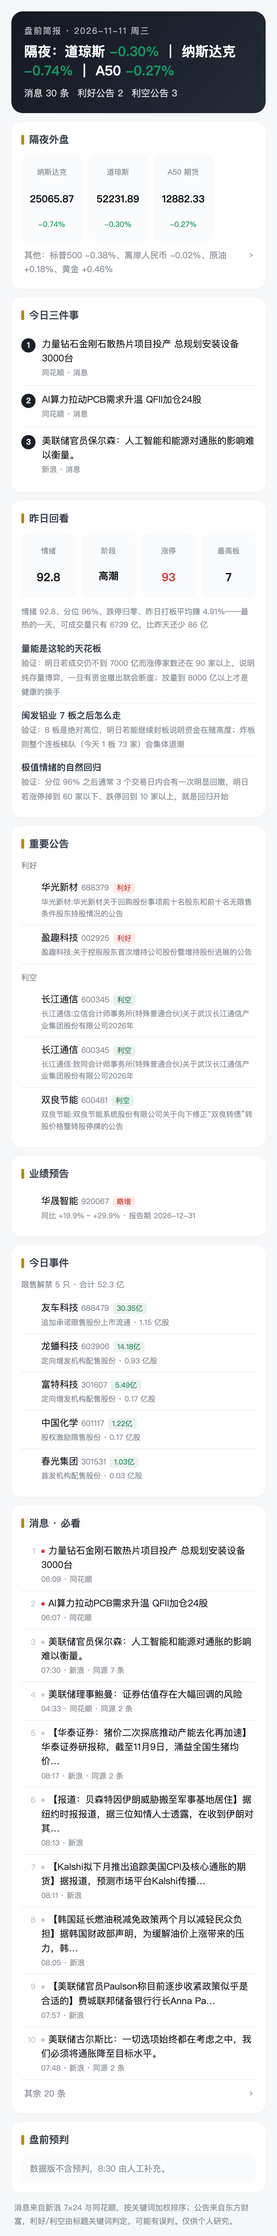
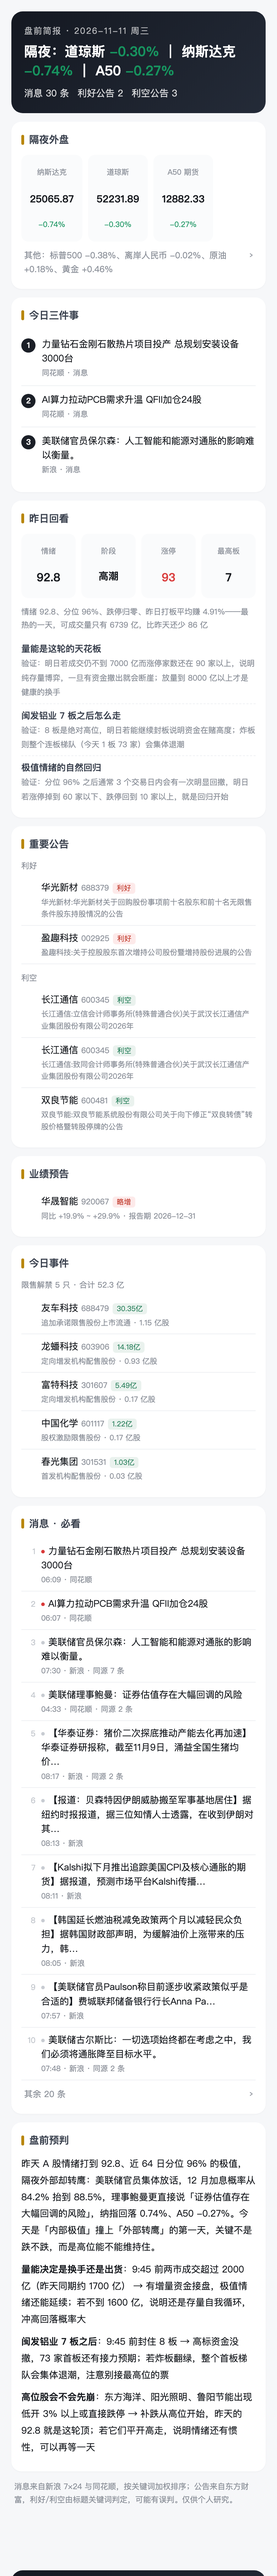
report: 2026-11-10

diff --git a/pre/2026-11-11/2026-11-11-盘前.html b/pre/2026-11-11/2026-11-11-盘前.html
@@ -57,4 +57,4 @@ padding:9px 16px;font-size:12.5px;max-width:560px;margin:0 auto}
 .nav a{color:#8a8f98;text-decoration:none;white-space:nowrap}
 .nav a.on{color:#1b1f27;font-weight:700}
 .nav a.home{color:#b8860b;font-weight:600}
-</style><link rel="manifest" href="/a-share-review/manifest.webmanifest"><meta name="theme-color" content="#1b1f27"><meta name="apple-mobile-web-app-capable" content="yes"><meta name="apple-mobile-web-app-status-bar-style" content="black-translucent"><meta name="apple-mobile-web-app-title" content="A股复盘"><link rel="apple-touch-icon" href="/a-share-review/icon-192.png"></head><body><div class="nav"><a class="home" href="../../index.html">⌂ 首页</a><a class="on" href="../../pre/index.html">盘前简报</a></div><div class="wrap"><div class="hero"><div class="d">盘前简报 · 2026-11-11 周三</div><h1>隔夜：道琼斯 <b class="down">-0.30%</b> ｜ 纳斯达克 <b class="down">-0.74%</b> ｜ A50 <b class="down">-0.27%</b></h1><div class="sum"><span>消息 30 条</span><span>利好公告 2</span><span>利空公告 3</span></div></div><div class="card"><h2>隔夜外盘</h2><div class="ov"><div><div class="n">纳斯达克</div><div class="v">25065.87</div><div class="p down">-0.74%</div></div><div><div class="n">道琼斯</div><div class="v">52231.89</div><div class="p down">-0.30%</div></div><div><div class="n">A50 期货</div><div class="v">12882.33</div><div class="p down">-0.27%</div></div></div><details class="more"><summary><span>其他：标普500 -0.38%、离岸人民币 -0.02%、原油 +0.18%、黄金 +0.46%</span><span class="arw">›</span></summary><div class="ov" style="margin-top:8px"><div><div class="n">标普500</div><div class="v">7520.93</div><div class="p down">-0.38%</div></div><div><div class="n">离岸人民币</div><div class="v">6.67</div><div class="p down">-0.02%</div></div><div><div class="n">原油</div><div class="v">86.19</div><div class="p up">+0.18%</div></div><div><div class="n">黄金</div><div class="v">4048.86</div><div class="p up">+0.46%</div></div></div></details></div><div class="card"><h2>今日三件事</h2><div class="t3"><div class="n">1</div><div><div class="t">力量钻石金刚石散热片项目投产 总规划安装设备3000台</div><div class="s">同花顺 · 消息</div></div></div><div class="t3"><div class="n">2</div><div><div class="t">AI算力拉动PCB需求升温 QFII加仓24股</div><div class="s">同花顺 · 消息</div></div></div><div class="t3"><div class="n">3</div><div><div class="t">美联储官员保尔森：人工智能和能源对通胀的影响难以衡量。</div><div class="s">新浪 · 消息</div></div></div></div><div class="card"><h2>昨日回看</h2><div class="kv"><div><div class="n">情绪</div><div class="v">92.8</div></div><div><div class="n">阶段</div><div class="v" style="font-size:14px">高潮</div></div><div><div class="n">涨停</div><div class="v up">93</div></div><div><div class="n">最高板</div><div class="v">7</div></div></div><div class="note" style="margin-bottom:8px">情绪 92.8、分位 96%、跌停归零、昨日打板平均赚 4.91%——最热的一天，可成交量只有 6739 亿，比昨天还少 86 亿</div><div class="watch"><b>量能是这轮的天花板</b><br><span class="note">验证：明日若成交仍不到 7000 亿而涨停家数还在 90 家以上，说明纯存量博弈，一旦有资金撤出就会断崖；放量到 8000 亿以上才是健康的换手</span></div><div class="watch"><b>闽发铝业 7 板之后怎么走</b><br><span class="note">验证：8 板是绝对高位，明日若能继续封板说明资金在赌高度；炸板则整个连板梯队（今天 1 板 73 家）会集体退潮</span></div><div class="watch"><b>极值情绪的自然回归</b><br><span class="note">验证：分位 96% 之后通常 3 个交易日内会有一次明显回撤，明日若涨停掉到 60 家以下、跌停回到 10 家以上，就是回归开始</span></div></div><div class="card"><h2>重要公告</h2><div class="note" style="margin-bottom:4px">利好</div><div class="item"><div class="no"></div><div class="b"><div class="t">华光新材 <span class="mut" style="font-size:11px">688379</span><span class="tag tag-good">利好</span></div><div class="m">华光新材:华光新材关于回购股份事项前十名股东和前十名无限售条件股东持股情况的公告</div></div></div><div class="item"><div class="no"></div><div class="b"><div class="t">盈趣科技 <span class="mut" style="font-size:11px">002925</span><span class="tag tag-good">利好</span></div><div class="m">盈趣科技:关于控股股东首次增持公司股份暨增持股份进展的公告</div></div></div><div class="note" style="margin:10px 0 4px">利空</div><div class="item"><div class="no"></div><div class="b"><div class="t">长江通信 <span class="mut" style="font-size:11px">600345</span><span class="tag tag-bad">利空</span></div><div class="m">长江通信:立信会计师事务所(特殊普通合伙)关于武汉长江通信产业集团股份有限公司2026年</div></div></div><div class="item"><div class="no"></div><div class="b"><div class="t">长江通信 <span class="mut" style="font-size:11px">600345</span><span class="tag tag-bad">利空</span></div><div class="m">长江通信:致同会计师事务所(特殊普通合伙)关于武汉长江通信产业集团股份有限公司2026年</div></div></div><div class="item"><div class="no"></div><div class="b"><div class="t">双良节能 <span class="mut" style="font-size:11px">600481</span><span class="tag tag-bad">利空</span></div><div class="m">双良节能:双良节能系统股份有限公司关于向下修正“双良转债”转股价格暨转股停牌的公告</div></div></div></div><div class="card"><h2>业绩预告</h2><div class="item"><div class="no"></div><div class="b"><div class="t">华晟智能 <span class="mut" style="font-size:11px">920067</span><span class="tag tag-good">略增</span></div><div class="m">同比 +19.9% ~ +29.9% · 报告期 2026-12-31</div></div></div></div><div class="card"><h2>今日事件</h2><div class="note" style="margin-bottom:6px">限售解禁 5 只 · 合计 52.3 亿</div><div class="item"><div class="no"></div><div class="b"><div class="t">友车科技 <span class="mut" style="font-size:11px">688479</span><span class="tag tag-bad">30.35亿</span></div><div class="m">追加承诺限售股份上市流通 · 1.15 亿股</div></div></div><div class="item"><div class="no"></div><div class="b"><div class="t">龙蟠科技 <span class="mut" style="font-size:11px">603906</span><span class="tag tag-bad">14.18亿</span></div><div class="m">定向增发机构配售股份 · 0.93 亿股</div></div></div><div class="item"><div class="no"></div><div class="b"><div class="t">富特科技 <span class="mut" style="font-size:11px">301607</span><span class="tag tag-bad">5.49亿</span></div><div class="m">定向增发机构配售股份 · 0.17 亿股</div></div></div><div class="item"><div class="no"></div><div class="b"><div class="t">中国化学 <span class="mut" style="font-size:11px">601117</span><span class="tag tag-bad">1.22亿</span></div><div class="m">股权激励限售股份 · 0.17 亿股</div></div></div><div class="item"><div class="no"></div><div class="b"><div class="t">春光集团 <span class="mut" style="font-size:11px">301531</span><span class="tag tag-bad">1.03亿</span></div><div class="m">首发机构配售股份 · 0.03 亿股</div></div></div></div><div class="card"><h2>消息 · 必看</h2><div class="item"><div class="no">1</div><div class="b"><div class="t"><span class="dot g"></span>力量钻石金刚石散热片项目投产 总规划安装设备3000台</div><div class="m">06:09 · 同花顺</div></div></div><div class="item"><div class="no">2</div><div class="b"><div class="t"><span class="dot g"></span>AI算力拉动PCB需求升温 QFII加仓24股</div><div class="m">06:07 · 同花顺</div></div></div><div class="item"><div class="no">3</div><div class="b"><div class="t"><span class="dot n"></span>美联储官员保尔森：人工智能和能源对通胀的影响难以衡量。</div><div class="m">07:30 · 新浪 · 同源 7 条</div></div></div><div class="item"><div class="no">4</div><div class="b"><div class="t"><span class="dot n"></span>美联储理事鲍曼：证券估值存在大幅回调的风险</div><div class="m">04:33 · 同花顺 · 同源 2 条</div></div></div><div class="item"><div class="no">5</div><div class="b"><div class="t"><span class="dot n"></span>【华泰证券：猪价二次探底推动产能去化再加速】华泰证券研报称，截至11月9日，涌益全国生猪均价…</div><div class="m">08:17 · 新浪 · 同源 2 条</div></div></div><div class="item"><div class="no">6</div><div class="b"><div class="t"><span class="dot n"></span>【报道：贝森特因伊朗威胁搬至军事基地居住】据纽约时报报道，据三位知情人士透露，在收到伊朗对其…</div><div class="m">08:13 · 新浪</div></div></div><div class="item"><div class="no">7</div><div class="b"><div class="t"><span class="dot n"></span>【Kalshi拟下月推出追踪美国CPI及核心通胀的期货】据报道，预测市场平台Kalshi传播…</div><div class="m">08:11 · 新浪</div></div></div><div class="item"><div class="no">8</div><div class="b"><div class="t"><span class="dot n"></span>【韩国延长燃油税减免政策两个月以减轻民众负担】据韩国财政部声明，为缓解油价上涨带来的压力，韩…</div><div class="m">08:05 · 新浪</div></div></div><div class="item"><div class="no">9</div><div class="b"><div class="t"><span class="dot n"></span>【美联储官员Paulson称目前逐步收紧政策似乎是合适的】费城联邦储备银行行长Anna Pa…</div><div class="m">07:57 · 新浪</div></div></div><div class="item"><div class="no">10</div><div class="b"><div class="t"><span class="dot n"></span>美联储古尔斯比：一切选项始终都在考虑之中，我们必须将通胀降至目标水平。</div><div class="m">07:48 · 新浪 · 同源 2 条</div></div></div><details class="more"><summary><span>其余 20 条</span><span class="arw">›</span></summary><div class="item"><div class="no">11</div><div class="b"><div class="t"><span class="dot n"></span>美联储官员古尔斯比：如果通胀持续存在，我们将不得不接受这一现实。</div><div class="m">07:47 · 新浪 · 同源 9 条</div></div></div><div class="item"><div class="no">12</div><div class="b"><div class="t"><span class="dot n"></span>美联储12月加息25个基点的概率为88.5%</div><div class="m">06:15 · 同花顺</div></div></div><div class="item"><div class="no">13</div><div class="b"><div class="t"><span class="dot n"></span>泰国内阁批准数据中心七级监管政策</div><div class="m">05:58 · 同花顺</div></div></div><div class="item"><div class="no">14</div><div class="b"><div class="t"><span class="dot g"></span>【27只滞涨科技股三季报业绩高增 部分公司拟大举回购】AI应用赛道持续爆发带动科技股反弹，国…</div><div class="m">07:38 · 新浪</div></div></div><div class="item"><div class="no">15</div><div class="b"><div class="t"><span class="dot g"></span>科技产业基本面向好 27只业绩高增股估值待修复</div><div class="m">06:13 · 同花顺</div></div></div><div class="item"><div class="no">16</div><div class="b"><div class="t"><span class="dot b2"></span>CoreWeave上调年度营收展望 缓解业务放缓担忧</div><div class="m">05:51 · 同花顺</div></div></div><div class="item"><div class="no">17</div><div class="b"><div class="t"><span class="dot n"></span>美股收评：美股三大指数集体收跌</div><div class="m">05:00 · 同花顺</div></div></div><div class="item"><div class="no">18</div><div class="b"><div class="t"><span class="dot g"></span>现货黄金突破4040美元/盎司，日内涨0.18%。</div><div class="m">08:03 · 新浪</div></div></div><div class="item"><div class="no">19</div><div class="b"><div class="t"><span class="dot b2"></span>软银集团公布第二季度净亏损1.12万亿日元后，股价出现抛售压力。</div><div class="m">08:00 · 新浪</div></div></div><div class="item"><div class="no">20</div><div class="b"><div class="t"><span class="dot g"></span>【中国宝武：西芒杜北部矿山项目全面建成投产】据中国宝武消息，当地时间11月6日，在宝赢西芒杜…</div><div class="m">07:55 · 新浪</div></div></div><div class="item"><div class="no">21</div><div class="b"><div class="t"><span class="dot g"></span>【泉金客运航线2026年出入境旅客突破10万人次】泉州边检站10日透露，截至11月8日下午，…</div><div class="m">07:36 · 新浪</div></div></div><div class="item"><div class="no">22</div><div class="b"><div class="t"><span class="dot g"></span>韩正会见联合国秘书长古特雷斯</div><div class="m">07:01 · 同花顺</div></div></div><div class="item"><div class="no">23</div><div class="b"><div class="t"><span class="dot b2"></span>CoreWeave高管称预计调整后净亏损将在2027年显著减少</div><div class="m">06:49 · 同花顺 · 同源 2 条</div></div></div><div class="item"><div class="no">24</div><div class="b"><div class="t"><span class="dot g"></span>加拿大将对11个伊朗实体实施制裁</div><div class="m">06:41 · 同花顺</div></div></div><div class="item"><div class="no">25</div><div class="b"><div class="t"><span class="dot b2"></span>美国联邦贸易委员会起诉Hims &amp; Hers，称其存在欺骗性隐私行为</div><div class="m">05:28 · 同花顺</div></div></div><div class="item"><div class="no">26</div><div class="b"><div class="t"><span class="dot g"></span>英国警方：一美军士兵因涉嫌从事与俄相关间谍活动在英被捕</div><div class="m">04:23 · 同花顺</div></div></div><div class="item"><div class="no">27</div><div class="b"><div class="t"><span class="dot n"></span>【中信建投玻璃纤维行业2027年投资策略：新技术看好无布率先落地】中信建投证券发布玻璃纤维2…</div><div class="m">08:11 · 新浪</div></div></div><div class="item"><div class="no">28</div><div class="b"><div class="t"><span class="dot n"></span>【高技术产品成出口新名片 中国外贸的APEC底色更浓】1月18日至19日，亚太经合组织（AP…</div><div class="m">08:07 · 新浪</div></div></div><div class="item"><div class="no">29</div><div class="b"><div class="t"><span class="dot n"></span>【中信建投2027年证券行业投资策略：建议沿头部集中与高弹性双主线布局】中信建投证券发布20…</div><div class="m">08:03 · 新浪</div></div></div><div class="item"><div class="no">30</div><div class="b"><div class="t"><span class="dot n"></span>【韩国 11 月 1-10 日出口同比增长111.9% 半导体出口同比增长331.2%】韩国…</div><div class="m">08:02 · 新浪</div></div></div></details></div><div class="card"><h2>盘前预判</h2><div class="empty">数据版不含预判，8:30 由人工补充。</div></div><div class="note" style="padding:0 4px">消息来自新浪 7×24 与同花顺，按关键词加权排序；公告来自东方财富，利好/利空由标题关键词判定，可能有误判。仅供个人研究。</div></div></body></html>
+</style><link rel="manifest" href="/a-share-review/manifest.webmanifest"><meta name="theme-color" content="#1b1f27"><meta name="apple-mobile-web-app-capable" content="yes"><meta name="apple-mobile-web-app-status-bar-style" content="black-translucent"><meta name="apple-mobile-web-app-title" content="A股复盘"><link rel="apple-touch-icon" href="/a-share-review/icon-192.png"></head><body><div class="nav"><a class="home" href="../../index.html">⌂ 首页</a><a class="on" href="../../pre/index.html">盘前简报</a></div><div class="wrap"><div class="hero"><div class="d">盘前简报 · 2026-11-11 周三</div><h1>隔夜：道琼斯 <b class="down">-0.30%</b> ｜ 纳斯达克 <b class="down">-0.74%</b> ｜ A50 <b class="down">-0.27%</b></h1><div class="sum"><span>消息 30 条</span><span>利好公告 2</span><span>利空公告 3</span></div></div><div class="card"><h2>隔夜外盘</h2><div class="ov"><div><div class="n">纳斯达克</div><div class="v">25065.87</div><div class="p down">-0.74%</div></div><div><div class="n">道琼斯</div><div class="v">52231.89</div><div class="p down">-0.30%</div></div><div><div class="n">A50 期货</div><div class="v">12882.33</div><div class="p down">-0.27%</div></div></div><details class="more"><summary><span>其他：标普500 -0.38%、离岸人民币 -0.02%、原油 +0.18%、黄金 +0.46%</span><span class="arw">›</span></summary><div class="ov" style="margin-top:8px"><div><div class="n">标普500</div><div class="v">7520.93</div><div class="p down">-0.38%</div></div><div><div class="n">离岸人民币</div><div class="v">6.67</div><div class="p down">-0.02%</div></div><div><div class="n">原油</div><div class="v">86.19</div><div class="p up">+0.18%</div></div><div><div class="n">黄金</div><div class="v">4048.86</div><div class="p up">+0.46%</div></div></div></details></div><div class="card"><h2>今日三件事</h2><div class="t3"><div class="n">1</div><div><div class="t">力量钻石金刚石散热片项目投产 总规划安装设备3000台</div><div class="s">同花顺 · 消息</div></div></div><div class="t3"><div class="n">2</div><div><div class="t">AI算力拉动PCB需求升温 QFII加仓24股</div><div class="s">同花顺 · 消息</div></div></div><div class="t3"><div class="n">3</div><div><div class="t">美联储官员保尔森：人工智能和能源对通胀的影响难以衡量。</div><div class="s">新浪 · 消息</div></div></div></div><div class="card"><h2>昨日回看</h2><div class="kv"><div><div class="n">情绪</div><div class="v">92.8</div></div><div><div class="n">阶段</div><div class="v" style="font-size:14px">高潮</div></div><div><div class="n">涨停</div><div class="v up">93</div></div><div><div class="n">最高板</div><div class="v">7</div></div></div><div class="note" style="margin-bottom:8px">情绪 92.8、分位 96%、跌停归零、昨日打板平均赚 4.91%——最热的一天，可成交量只有 6739 亿，比昨天还少 86 亿</div><div class="watch"><b>量能是这轮的天花板</b><br><span class="note">验证：明日若成交仍不到 7000 亿而涨停家数还在 90 家以上，说明纯存量博弈，一旦有资金撤出就会断崖；放量到 8000 亿以上才是健康的换手</span></div><div class="watch"><b>闽发铝业 7 板之后怎么走</b><br><span class="note">验证：8 板是绝对高位，明日若能继续封板说明资金在赌高度；炸板则整个连板梯队（今天 1 板 73 家）会集体退潮</span></div><div class="watch"><b>极值情绪的自然回归</b><br><span class="note">验证：分位 96% 之后通常 3 个交易日内会有一次明显回撤，明日若涨停掉到 60 家以下、跌停回到 10 家以上，就是回归开始</span></div></div><div class="card"><h2>重要公告</h2><div class="note" style="margin-bottom:4px">利好</div><div class="item"><div class="no"></div><div class="b"><div class="t">华光新材 <span class="mut" style="font-size:11px">688379</span><span class="tag tag-good">利好</span></div><div class="m">华光新材:华光新材关于回购股份事项前十名股东和前十名无限售条件股东持股情况的公告</div></div></div><div class="item"><div class="no"></div><div class="b"><div class="t">盈趣科技 <span class="mut" style="font-size:11px">002925</span><span class="tag tag-good">利好</span></div><div class="m">盈趣科技:关于控股股东首次增持公司股份暨增持股份进展的公告</div></div></div><div class="note" style="margin:10px 0 4px">利空</div><div class="item"><div class="no"></div><div class="b"><div class="t">长江通信 <span class="mut" style="font-size:11px">600345</span><span class="tag tag-bad">利空</span></div><div class="m">长江通信:立信会计师事务所(特殊普通合伙)关于武汉长江通信产业集团股份有限公司2026年</div></div></div><div class="item"><div class="no"></div><div class="b"><div class="t">长江通信 <span class="mut" style="font-size:11px">600345</span><span class="tag tag-bad">利空</span></div><div class="m">长江通信:致同会计师事务所(特殊普通合伙)关于武汉长江通信产业集团股份有限公司2026年</div></div></div><div class="item"><div class="no"></div><div class="b"><div class="t">双良节能 <span class="mut" style="font-size:11px">600481</span><span class="tag tag-bad">利空</span></div><div class="m">双良节能:双良节能系统股份有限公司关于向下修正“双良转债”转股价格暨转股停牌的公告</div></div></div></div><div class="card"><h2>业绩预告</h2><div class="item"><div class="no"></div><div class="b"><div class="t">华晟智能 <span class="mut" style="font-size:11px">920067</span><span class="tag tag-good">略增</span></div><div class="m">同比 +19.9% ~ +29.9% · 报告期 2026-12-31</div></div></div></div><div class="card"><h2>今日事件</h2><div class="note" style="margin-bottom:6px">限售解禁 5 只 · 合计 52.3 亿</div><div class="item"><div class="no"></div><div class="b"><div class="t">友车科技 <span class="mut" style="font-size:11px">688479</span><span class="tag tag-bad">30.35亿</span></div><div class="m">追加承诺限售股份上市流通 · 1.15 亿股</div></div></div><div class="item"><div class="no"></div><div class="b"><div class="t">龙蟠科技 <span class="mut" style="font-size:11px">603906</span><span class="tag tag-bad">14.18亿</span></div><div class="m">定向增发机构配售股份 · 0.93 亿股</div></div></div><div class="item"><div class="no"></div><div class="b"><div class="t">富特科技 <span class="mut" style="font-size:11px">301607</span><span class="tag tag-bad">5.49亿</span></div><div class="m">定向增发机构配售股份 · 0.17 亿股</div></div></div><div class="item"><div class="no"></div><div class="b"><div class="t">中国化学 <span class="mut" style="font-size:11px">601117</span><span class="tag tag-bad">1.22亿</span></div><div class="m">股权激励限售股份 · 0.17 亿股</div></div></div><div class="item"><div class="no"></div><div class="b"><div class="t">春光集团 <span class="mut" style="font-size:11px">301531</span><span class="tag tag-bad">1.03亿</span></div><div class="m">首发机构配售股份 · 0.03 亿股</div></div></div></div><div class="card"><h2>消息 · 必看</h2><div class="item"><div class="no">1</div><div class="b"><div class="t"><span class="dot g"></span>力量钻石金刚石散热片项目投产 总规划安装设备3000台</div><div class="m">06:09 · 同花顺</div></div></div><div class="item"><div class="no">2</div><div class="b"><div class="t"><span class="dot g"></span>AI算力拉动PCB需求升温 QFII加仓24股</div><div class="m">06:07 · 同花顺</div></div></div><div class="item"><div class="no">3</div><div class="b"><div class="t"><span class="dot n"></span>美联储官员保尔森：人工智能和能源对通胀的影响难以衡量。</div><div class="m">07:30 · 新浪 · 同源 7 条</div></div></div><div class="item"><div class="no">4</div><div class="b"><div class="t"><span class="dot n"></span>美联储理事鲍曼：证券估值存在大幅回调的风险</div><div class="m">04:33 · 同花顺 · 同源 2 条</div></div></div><div class="item"><div class="no">5</div><div class="b"><div class="t"><span class="dot n"></span>【华泰证券：猪价二次探底推动产能去化再加速】华泰证券研报称，截至11月9日，涌益全国生猪均价…</div><div class="m">08:17 · 新浪 · 同源 2 条</div></div></div><div class="item"><div class="no">6</div><div class="b"><div class="t"><span class="dot n"></span>【报道：贝森特因伊朗威胁搬至军事基地居住】据纽约时报报道，据三位知情人士透露，在收到伊朗对其…</div><div class="m">08:13 · 新浪</div></div></div><div class="item"><div class="no">7</div><div class="b"><div class="t"><span class="dot n"></span>【Kalshi拟下月推出追踪美国CPI及核心通胀的期货】据报道，预测市场平台Kalshi传播…</div><div class="m">08:11 · 新浪</div></div></div><div class="item"><div class="no">8</div><div class="b"><div class="t"><span class="dot n"></span>【韩国延长燃油税减免政策两个月以减轻民众负担】据韩国财政部声明，为缓解油价上涨带来的压力，韩…</div><div class="m">08:05 · 新浪</div></div></div><div class="item"><div class="no">9</div><div class="b"><div class="t"><span class="dot n"></span>【美联储官员Paulson称目前逐步收紧政策似乎是合适的】费城联邦储备银行行长Anna Pa…</div><div class="m">07:57 · 新浪</div></div></div><div class="item"><div class="no">10</div><div class="b"><div class="t"><span class="dot n"></span>美联储古尔斯比：一切选项始终都在考虑之中，我们必须将通胀降至目标水平。</div><div class="m">07:48 · 新浪 · 同源 2 条</div></div></div><details class="more"><summary><span>其余 20 条</span><span class="arw">›</span></summary><div class="item"><div class="no">11</div><div class="b"><div class="t"><span class="dot n"></span>美联储官员古尔斯比：如果通胀持续存在，我们将不得不接受这一现实。</div><div class="m">07:47 · 新浪 · 同源 9 条</div></div></div><div class="item"><div class="no">12</div><div class="b"><div class="t"><span class="dot n"></span>美联储12月加息25个基点的概率为88.5%</div><div class="m">06:15 · 同花顺</div></div></div><div class="item"><div class="no">13</div><div class="b"><div class="t"><span class="dot n"></span>泰国内阁批准数据中心七级监管政策</div><div class="m">05:58 · 同花顺</div></div></div><div class="item"><div class="no">14</div><div class="b"><div class="t"><span class="dot g"></span>【27只滞涨科技股三季报业绩高增 部分公司拟大举回购】AI应用赛道持续爆发带动科技股反弹，国…</div><div class="m">07:38 · 新浪</div></div></div><div class="item"><div class="no">15</div><div class="b"><div class="t"><span class="dot g"></span>科技产业基本面向好 27只业绩高增股估值待修复</div><div class="m">06:13 · 同花顺</div></div></div><div class="item"><div class="no">16</div><div class="b"><div class="t"><span class="dot b2"></span>CoreWeave上调年度营收展望 缓解业务放缓担忧</div><div class="m">05:51 · 同花顺</div></div></div><div class="item"><div class="no">17</div><div class="b"><div class="t"><span class="dot n"></span>美股收评：美股三大指数集体收跌</div><div class="m">05:00 · 同花顺</div></div></div><div class="item"><div class="no">18</div><div class="b"><div class="t"><span class="dot g"></span>现货黄金突破4040美元/盎司，日内涨0.18%。</div><div class="m">08:03 · 新浪</div></div></div><div class="item"><div class="no">19</div><div class="b"><div class="t"><span class="dot b2"></span>软银集团公布第二季度净亏损1.12万亿日元后，股价出现抛售压力。</div><div class="m">08:00 · 新浪</div></div></div><div class="item"><div class="no">20</div><div class="b"><div class="t"><span class="dot g"></span>【中国宝武：西芒杜北部矿山项目全面建成投产】据中国宝武消息，当地时间11月6日，在宝赢西芒杜…</div><div class="m">07:55 · 新浪</div></div></div><div class="item"><div class="no">21</div><div class="b"><div class="t"><span class="dot g"></span>【泉金客运航线2026年出入境旅客突破10万人次】泉州边检站10日透露，截至11月8日下午，…</div><div class="m">07:36 · 新浪</div></div></div><div class="item"><div class="no">22</div><div class="b"><div class="t"><span class="dot g"></span>韩正会见联合国秘书长古特雷斯</div><div class="m">07:01 · 同花顺</div></div></div><div class="item"><div class="no">23</div><div class="b"><div class="t"><span class="dot b2"></span>CoreWeave高管称预计调整后净亏损将在2027年显著减少</div><div class="m">06:49 · 同花顺 · 同源 2 条</div></div></div><div class="item"><div class="no">24</div><div class="b"><div class="t"><span class="dot g"></span>加拿大将对11个伊朗实体实施制裁</div><div class="m">06:41 · 同花顺</div></div></div><div class="item"><div class="no">25</div><div class="b"><div class="t"><span class="dot b2"></span>美国联邦贸易委员会起诉Hims &amp; Hers，称其存在欺骗性隐私行为</div><div class="m">05:28 · 同花顺</div></div></div><div class="item"><div class="no">26</div><div class="b"><div class="t"><span class="dot g"></span>英国警方：一美军士兵因涉嫌从事与俄相关间谍活动在英被捕</div><div class="m">04:23 · 同花顺</div></div></div><div class="item"><div class="no">27</div><div class="b"><div class="t"><span class="dot n"></span>【中信建投玻璃纤维行业2027年投资策略：新技术看好无布率先落地】中信建投证券发布玻璃纤维2…</div><div class="m">08:11 · 新浪</div></div></div><div class="item"><div class="no">28</div><div class="b"><div class="t"><span class="dot n"></span>【高技术产品成出口新名片 中国外贸的APEC底色更浓】1月18日至19日，亚太经合组织（AP…</div><div class="m">08:07 · 新浪</div></div></div><div class="item"><div class="no">29</div><div class="b"><div class="t"><span class="dot n"></span>【中信建投2027年证券行业投资策略：建议沿头部集中与高弹性双主线布局】中信建投证券发布20…</div><div class="m">08:03 · 新浪</div></div></div><div class="item"><div class="no">30</div><div class="b"><div class="t"><span class="dot n"></span>【韩国 11 月 1-10 日出口同比增长111.9% 半导体出口同比增长331.2%】韩国…</div><div class="m">08:02 · 新浪</div></div></div></details></div><div class="card"><h2>盘前预判</h2><div class="jd"><p>昨天 A 股情绪打到 92.8、近 64 日分位 96% 的极值，隔夜外部却转鹰：美联储官员集体放话，12 月加息概率从 84.2% 抬到 88.5%，理事鲍曼更直接说「证券估值存在大幅回调的风险」，纳指回落 0.74%、A50 -0.27%。今天是「内部极值」撞上「外部转鹰」的第一天，关键不是跌不跌，而是高位能不能维持住。</p><p><b>量能决定是换手还是出货</b>：9:45 前两市成交超过 2000 亿（昨天同期约 1700 亿） → 有增量资金接盘，极值情绪还能延续；若不到 1600 亿，说明还是存量自我循环，冲高回落概率大</p><p><b>闽发铝业 7 板之后</b>：9:45 前封住 8 板 → 高标资金没撤，73 家首板还有接力预期；若炸板翻绿，整个首板梯队会集体退潮，注意别接最高位的票</p><p><b>高位股会不会先崩</b>：东方海洋、阳光照明、鲁阳节能出现低开 3% 以上或直接跌停 → 补跌从高位开始，昨天的 92.8 就是这轮顶；若它们平开高走，说明情绪还有惯性，可以再等一天</p></div></div><div class="note" style="padding:0 4px">消息来自新浪 7×24 与同花顺，按关键词加权排序；公告来自东方财富，利好/利空由标题关键词判定，可能有误判。仅供个人研究。</div></div></body></html>

diff --git a/pre/index.html b/pre/index.html
@@ -47,6 +47,6 @@ padding-bottom:env(safe-area-inset-bottom)}
 .tabbar a.on::after{content:"";display:block;width:18px;height:2.5px;border-radius:2px;background:var(--gold);margin:5px auto 0}
 </style><link rel="manifest" href="/a-share-review/manifest.webmanifest"><meta name="theme-color" content="#1b1f27"><meta name="apple-mobile-web-app-capable" content="yes"><meta name="apple-mobile-web-app-status-bar-style" content="black-translucent"><meta name="apple-mobile-web-app-title" content="A股复盘"><link rel="apple-touch-icon" href="/a-share-review/icon-192.png"></head><body><div class="wrap">
 <div class="head"><h1>盘前简报</h1><div class="sub">共 8 篇 · 交易日 08:20</div></div>
-<a class="hero" href="2026-11-11/2026-11-11-盘前.html?v=1794356410"><div class="ht">最新盘前 · 2026-11-11</div><div class="hrow"><div><div class="hn">纳指</div><div class="hv down">-0.74%</div></div><div><div class="hn">道指</div><div class="hv down">-0.30%</div></div><div><div class="hn">A50</div><div class="hv down">-0.27%</div></div><div><div class="hn">消息</div><div class="hv">30</div></div></div><div class="hb">点开看完整盘前简报 →</div></a>
-<details class="month" open><summary><span><b>2026-11</b>　8 篇</span><span class="arw">›</span></summary><div class="list"><a class="row" href="2026-11-11/2026-11-11-盘前.html?v=1794356410"><div class="rl"><div class="rd">11-11</div><div class="rw">周三</div></div><div class="rm"><span class="k down">纳指 -0.74%</span><span class="k2">30 条消息</span></div></a><a class="row" href="2026-11-10/2026-11-10-盘前.html?v=1794270612"><div class="rl"><div class="rd">11-10</div><div class="rw">周二</div></div><div class="rm"><span class="k up">纳指 +2.74%</span><span class="k2">30 条消息</span><span class="tag2">预判</span></div></a><a class="row" href="2026-11-09/2026-11-09-盘前.html?v=1794194683"><div class="rl"><div class="rd">11-09</div><div class="rw">周一</div></div><div class="rm"><span class="k up">纳指 +1.09%</span><span class="k2">30 条消息</span><span class="tag2">预判</span></div></a><a class="row" href="2026-11-06/2026-11-06-盘前.html?v=1793928167"><div class="rl"><div class="rd">11-06</div><div class="rw">周五</div></div><div class="rm"><span class="k down">纳指 -5.52%</span><span class="k2">30 条消息</span><span class="tag2">预判</span></div></a><a class="row" href="2026-11-05/2026-11-05-盘前.html?v=1793928167"><div class="rl"><div class="rd">11-05</div><div class="rw">周四</div></div><div class="rm"><span class="k up">纳指 +1.44%</span><span class="k2">18 条消息</span><span class="tag2">预判</span></div></a><a class="row" href="2026-11-04/2026-11-04-盘前.html?v=1793928167"><div class="rl"><div class="rd">11-04</div><div class="rw">周三</div></div><div class="rm"><span class="k up">纳指 +0.83%</span><span class="k2">30 条消息</span><span class="tag2">预判</span></div></a><a class="row" href="2026-11-03/2026-11-03-盘前.html?v=1793928166"><div class="rl"><div class="rd">11-03</div><div class="rw">周二</div></div><div class="rm"><span class="k down">纳指 -1.07%</span><span class="k2">30 条消息</span><span class="tag2">预判</span></div></a><a class="row" href="2026-11-02/2026-11-02-盘前.html?v=1793928166"><div class="rl"><div class="rd">11-02</div><div class="rw">周一</div></div><div class="rm"><span class="k down">纳指 -2.86%</span><span class="k2">30 条消息</span></div></a></div></details>
+<a class="hero" href="2026-11-11/2026-11-11-盘前.html?v=1794357010"><div class="ht">最新盘前 · 2026-11-11</div><div class="hrow"><div><div class="hn">纳指</div><div class="hv down">-0.74%</div></div><div><div class="hn">道指</div><div class="hv down">-0.30%</div></div><div><div class="hn">A50</div><div class="hv down">-0.27%</div></div><div><div class="hn">消息</div><div class="hv">30</div></div></div><div class="hj">昨天 A 股情绪打到 92.8、近 64 日分位 96% 的极值，隔夜外部却转鹰：美联储官员集体放话，12 月加息概率从</div><div class="hb">点开看完整盘前简报 →</div></a>
+<details class="month" open><summary><span><b>2026-11</b>　8 篇</span><span class="arw">›</span></summary><div class="list"><a class="row" href="2026-11-11/2026-11-11-盘前.html?v=1794357010"><div class="rl"><div class="rd">11-11</div><div class="rw">周三</div></div><div class="rm"><span class="k down">纳指 -0.74%</span><span class="k2">30 条消息</span><span class="tag2">预判</span></div></a><a class="row" href="2026-11-10/2026-11-10-盘前.html?v=1794270612"><div class="rl"><div class="rd">11-10</div><div class="rw">周二</div></div><div class="rm"><span class="k up">纳指 +2.74%</span><span class="k2">30 条消息</span><span class="tag2">预判</span></div></a><a class="row" href="2026-11-09/2026-11-09-盘前.html?v=1794194683"><div class="rl"><div class="rd">11-09</div><div class="rw">周一</div></div><div class="rm"><span class="k up">纳指 +1.09%</span><span class="k2">30 条消息</span><span class="tag2">预判</span></div></a><a class="row" href="2026-11-06/2026-11-06-盘前.html?v=1793928167"><div class="rl"><div class="rd">11-06</div><div class="rw">周五</div></div><div class="rm"><span class="k down">纳指 -5.52%</span><span class="k2">30 条消息</span><span class="tag2">预判</span></div></a><a class="row" href="2026-11-05/2026-11-05-盘前.html?v=1793928167"><div class="rl"><div class="rd">11-05</div><div class="rw">周四</div></div><div class="rm"><span class="k up">纳指 +1.44%</span><span class="k2">18 条消息</span><span class="tag2">预判</span></div></a><a class="row" href="2026-11-04/2026-11-04-盘前.html?v=1793928167"><div class="rl"><div class="rd">11-04</div><div class="rw">周三</div></div><div class="rm"><span class="k up">纳指 +0.83%</span><span class="k2">30 条消息</span><span class="tag2">预判</span></div></a><a class="row" href="2026-11-03/2026-11-03-盘前.html?v=1793928166"><div class="rl"><div class="rd">11-03</div><div class="rw">周二</div></div><div class="rm"><span class="k down">纳指 -1.07%</span><span class="k2">30 条消息</span><span class="tag2">预判</span></div></a><a class="row" href="2026-11-02/2026-11-02-盘前.html?v=1793928166"><div class="rl"><div class="rd">11-02</div><div class="rw">周一</div></div><div class="rm"><span class="k down">纳指 -2.86%</span><span class="k2">30 条消息</span></div></a></div></details>
 </div><div class="tabbar"><a href="../index.html">每日复盘</a><a href="index.html" class="on">盘前简报</a><a href="../earn/index.html">业绩追踪</a></div></body></html>

diff --git a/index.html b/index.html
@@ -164,7 +164,7 @@ padding-bottom:env(safe-area-inset-bottom)}
   </div>
 </a></div></details>
 <div class="foot">数据与判断仅供个人研究，不构成投资建议<br>
-生成于 2026-11-11 08:20</div>
+生成于 2026-11-11 08:30</div>
 <div class="tabbar"><a href="index.html" class="on">每日复盘</a><a href="pre/index.html">盘前简报</a><a href="earn/index.html">业绩追踪</a></div>
 </div>
 <script>

diff --git a/pre/2026-11-11/2026-11-11-盘前.md b/pre/2026-11-11/2026-11-11-盘前.md
@@ -83,4 +83,8 @@
 
 ## 盘前预判
 
-> 8:30 由人工补充（数据版不含预判）。
+昨天 A 股情绪打到 92.8、近 64 日分位 96% 的极值，隔夜外部却转鹰：美联储官员集体放话，12 月加息概率从 84.2% 抬到 88.5%，理事鲍曼更直接说「证券估值存在大幅回调的风险」，纳指回落 0.74%、A50 -0.27%。今天是「内部极值」撞上「外部转鹰」的第一天，关键不是跌不跌，而是高位能不能维持住。
+
+- **量能决定是换手还是出货**：9:45 前两市成交超过 2000 亿（昨天同期约 1700 亿） → 有增量资金接盘，极值情绪还能延续；若不到 1600 亿，说明还是存量自我循环，冲高回落概率大
+- **闽发铝业 7 板之后**：9:45 前封住 8 板 → 高标资金没撤，73 家首板还有接力预期；若炸板翻绿，整个首板梯队会集体退潮，注意别接最高位的票
+- **高位股会不会先崩**：东方海洋、阳光照明、鲁阳节能出现低开 3% 以上或直接跌停 → 补跌从高位开始，昨天的 92.8 就是这轮顶；若它们平开高走，说明情绪还有惯性，可以再等一天
